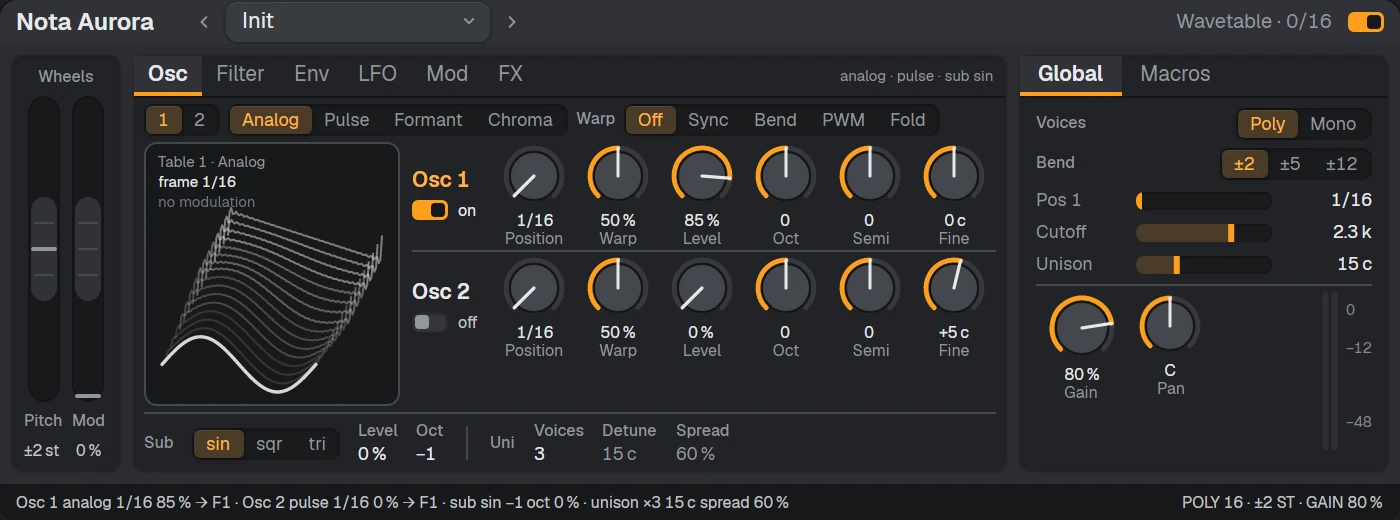
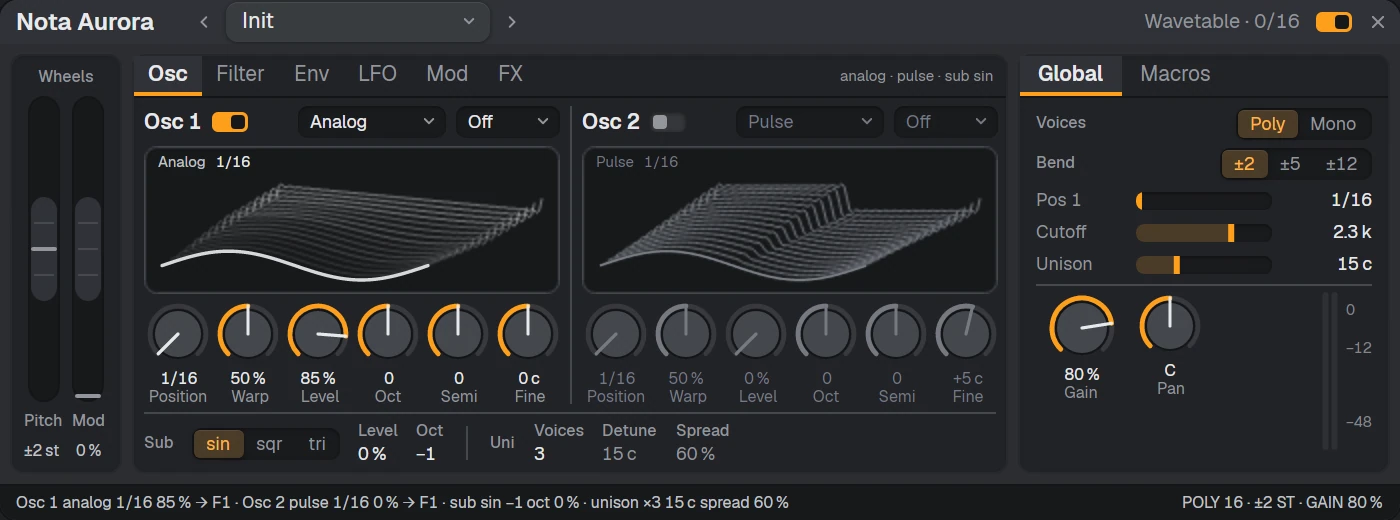
Aurora: both oscillators on the Osc tab, and your own wavetables

Changed region(s): [[0.0921, 0.1846, 0.7064, 0.8], [0.7986, 0.0, 1.0, 0.0615], [0.5836, 0.7385, 0.645, 0.7692]]

diff --git a/shots/app/Scenes.cs b/shots/app/Scenes.cs
@@ -21,7 +21,7 @@ namespace NotaDocsShots;
 /// Every scene the manifest can ask for. A scene builds a window, renders it at 2× and saves
 /// the whole frame or a cropped control. Args come from the manifest entry's `args`.
 ///
-///   device    instrument | effect | midi (kind id), preset, tab, card (index in the chain),
+///   device    instrument | effect | midi (kind id), preset, tab, card (index in the chain), wt1 / wt2 (a demo sample as Aurora's wavetable),
 ///             clip (a demo sample on an effect's track), sidechain + sidechainName (a demo sample on
 ///             a second track routed as the effect's key),
 ///             chainInstrument (an Instrument Rack's chain 1 instrument), trackName, window (click this text — a
@@ -184,6 +184,18 @@ public sealed class Scenes
                 }
             }
         }
+        // `wt1` / `wt2`: a demo sample imported as Aurora Osc 1 / Osc 2's wavetable (nota
+        // specs/053). Called by reflection so the harness still builds against an app without it.
+        foreach (var (key, osc) in new[] { ("wt1", 0), ("wt2", 1) })
+            if (shot.Str(key) is string wt)
+            {
+                var et = _engine.GetType();
+                var build = et.GetMethod("AuroraTableBuild") ?? throw new InvalidOperationException("this Nota has no wavetable import");
+                var a = new object?[] { _demo.Sample(wt), null };
+                if ((int)build.Invoke(_engine, a)! != 0) throw new InvalidOperationException($"wavetable '{wt}' did not build");
+                et.GetMethod("AuroraSetTable")!.Invoke(_engine, new object[] { track, osc, a[1]!, false });
+                et.GetMethod("AuroraTableFree")!.Invoke(_engine, new[] { a[1]! });
+            }
         // A little audio through the device so meters, spectra and envelopes have something to draw.
         _engine.Play();
         var buf = new float[1024 * 2];
